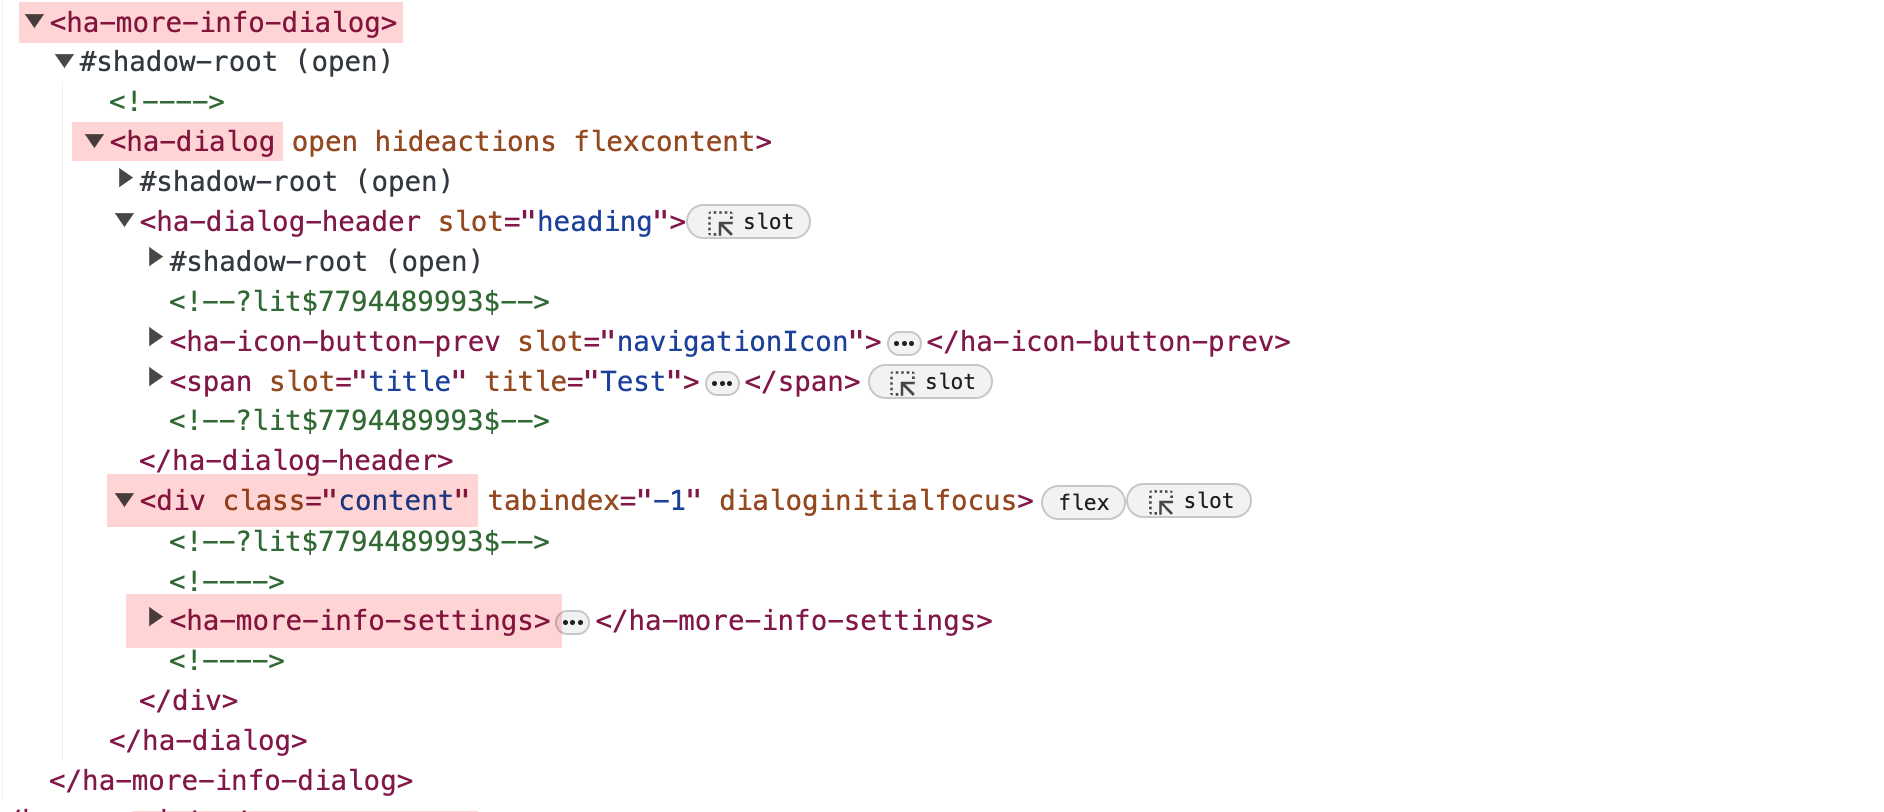
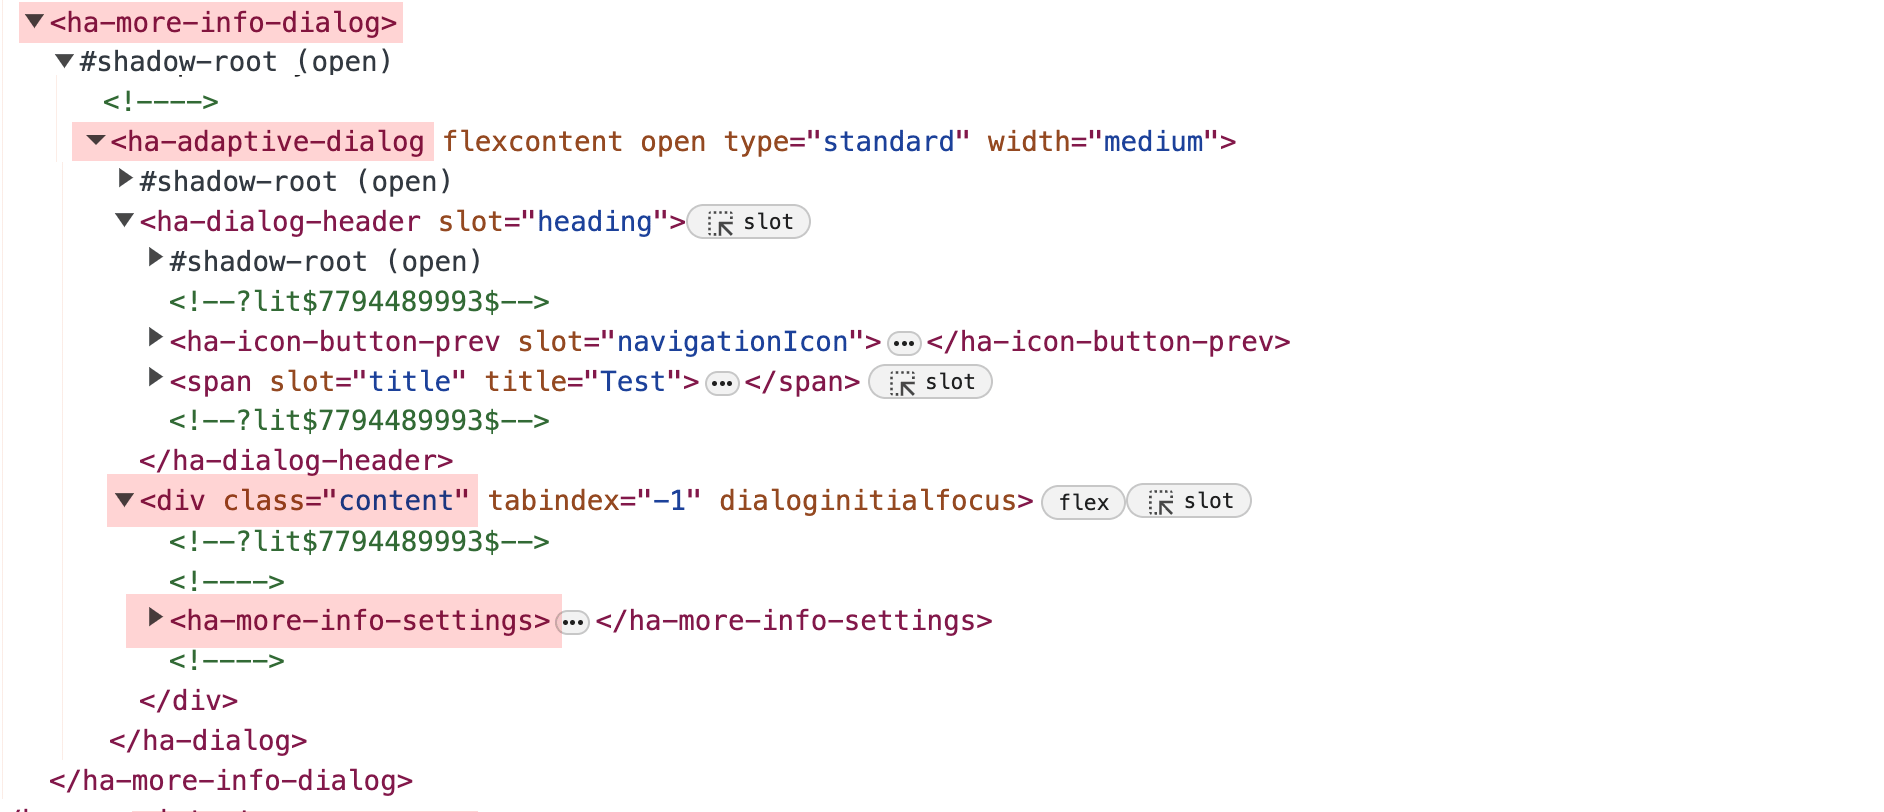
Update documentation

Changed region(s): [[0.0616, 0.1232, 0.6465, 0.2155]]

diff --git a/README.md b/README.md
@@ -328,7 +328,7 @@ This is the list of the elements available inside the `detail` property of the `
 | Detail element             | DOM element              |
 | -------------------------- | ------------------------ |
 | `HA_MORE_INFO_DIALOG`      | `ha-more-info-dialog`    |
-| `HA_DIALOG`                | `ha-dialog`              |
+| `HA_DIALOG`                | `ha-adaptive-dialog`     |
 | `HA_DIALOG_CONTENT`        | `.content`               |
 | `HA_MORE_INFO_DIALOG_INFO` | `ha-more-info-info`      |
 
@@ -367,7 +367,7 @@ This is the list of the elements available inside the `detail` property of the `
 | Detail element                            | DOM element                        |
 | ----------------------------------------- | ---------------------------------- |
 | `HA_MORE_INFO_DIALOG`                     | `ha-more-info-dialog`              |
-| `HA_DIALOG`                               | `ha-dialog`                        |
+| `HA_DIALOG`                               | `ha-adaptive-dialog`               |
 | `HA_DIALOG_CONTENT`                       | `.content`                         |
 | `HA_DIALOG_MORE_INFO_HISTORY_AND_LOGBOOK` | `ha-more-info-history-and-logbook` |
 
@@ -406,7 +406,7 @@ This is the list of the elements available inside the `detail` property of the `
 | Detail element                 | DOM element             |
 | ------------------------------ | ----------------------- |
 | `HA_MORE_INFO_DIALOG`          | `ha-more-info-dialog`   |
-| `HA_DIALOG`                    | `ha-dialog`             |
+| `HA_DIALOG`                    | `ha-adaptive-dialog`    |
 | `HA_DIALOG_CONTENT`            | `.content`              |
 | `HA_DIALOG_MORE_INFO_SETTINGS` | `ha-more-info-settings` |
 
